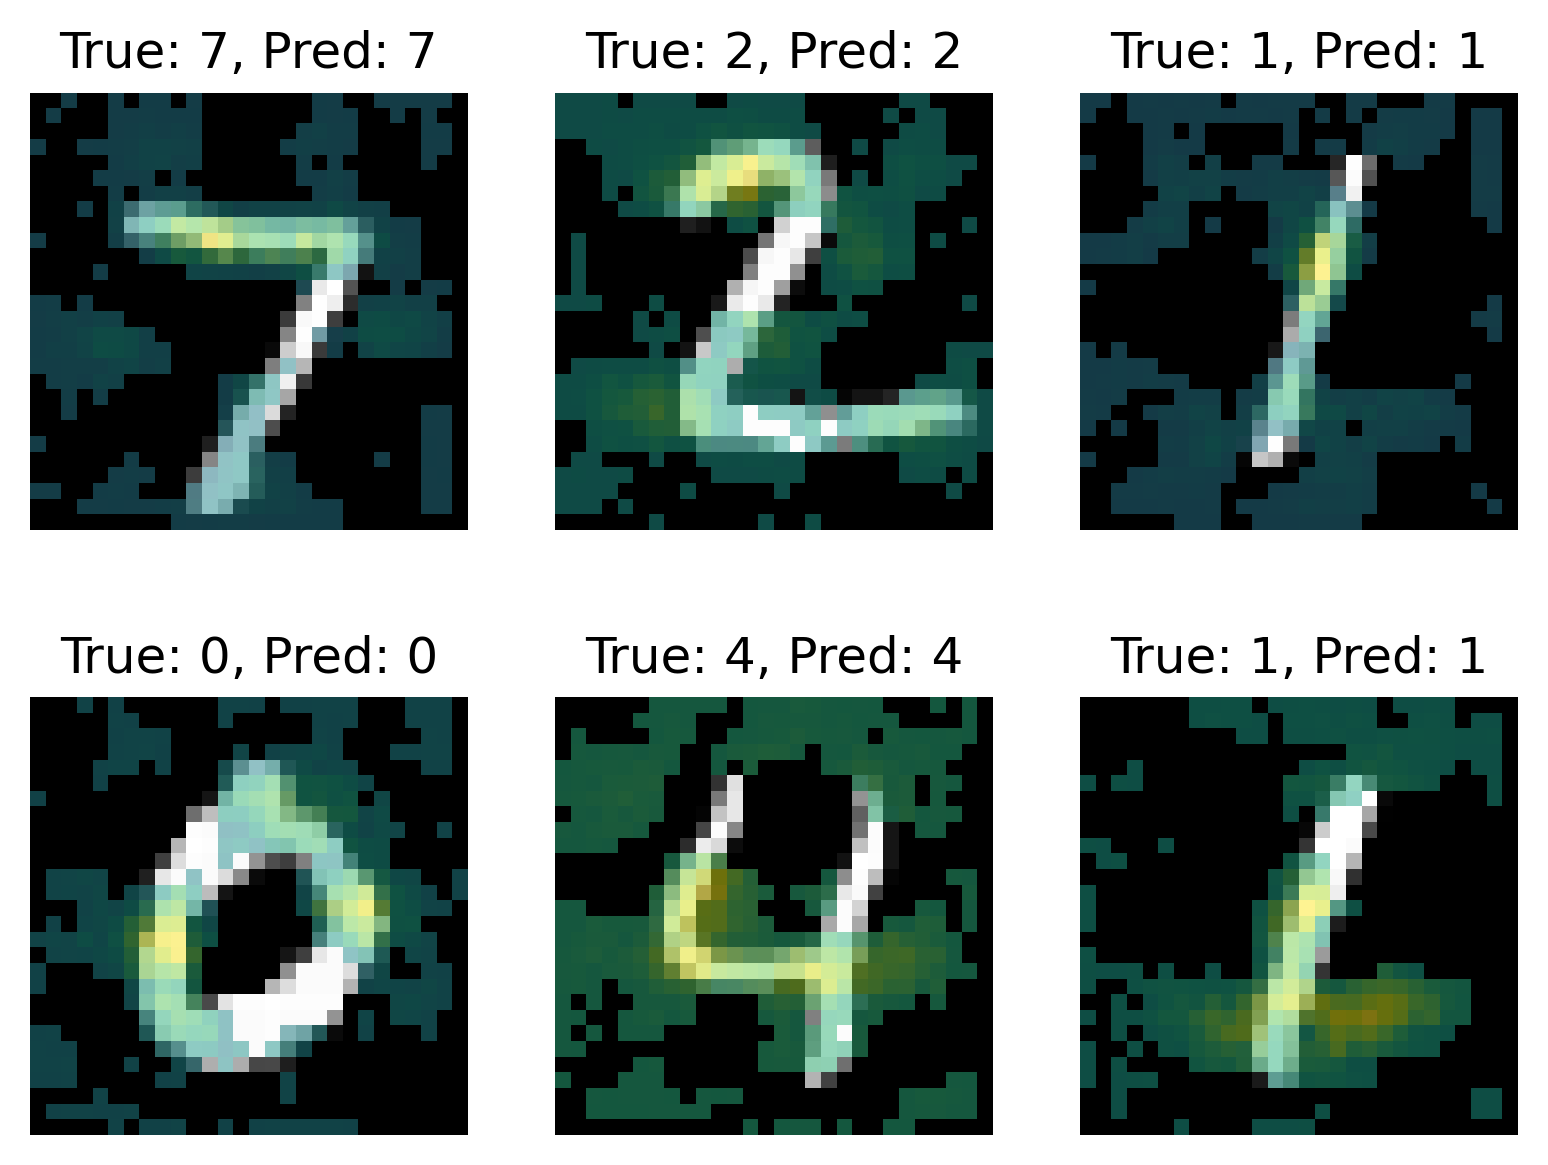
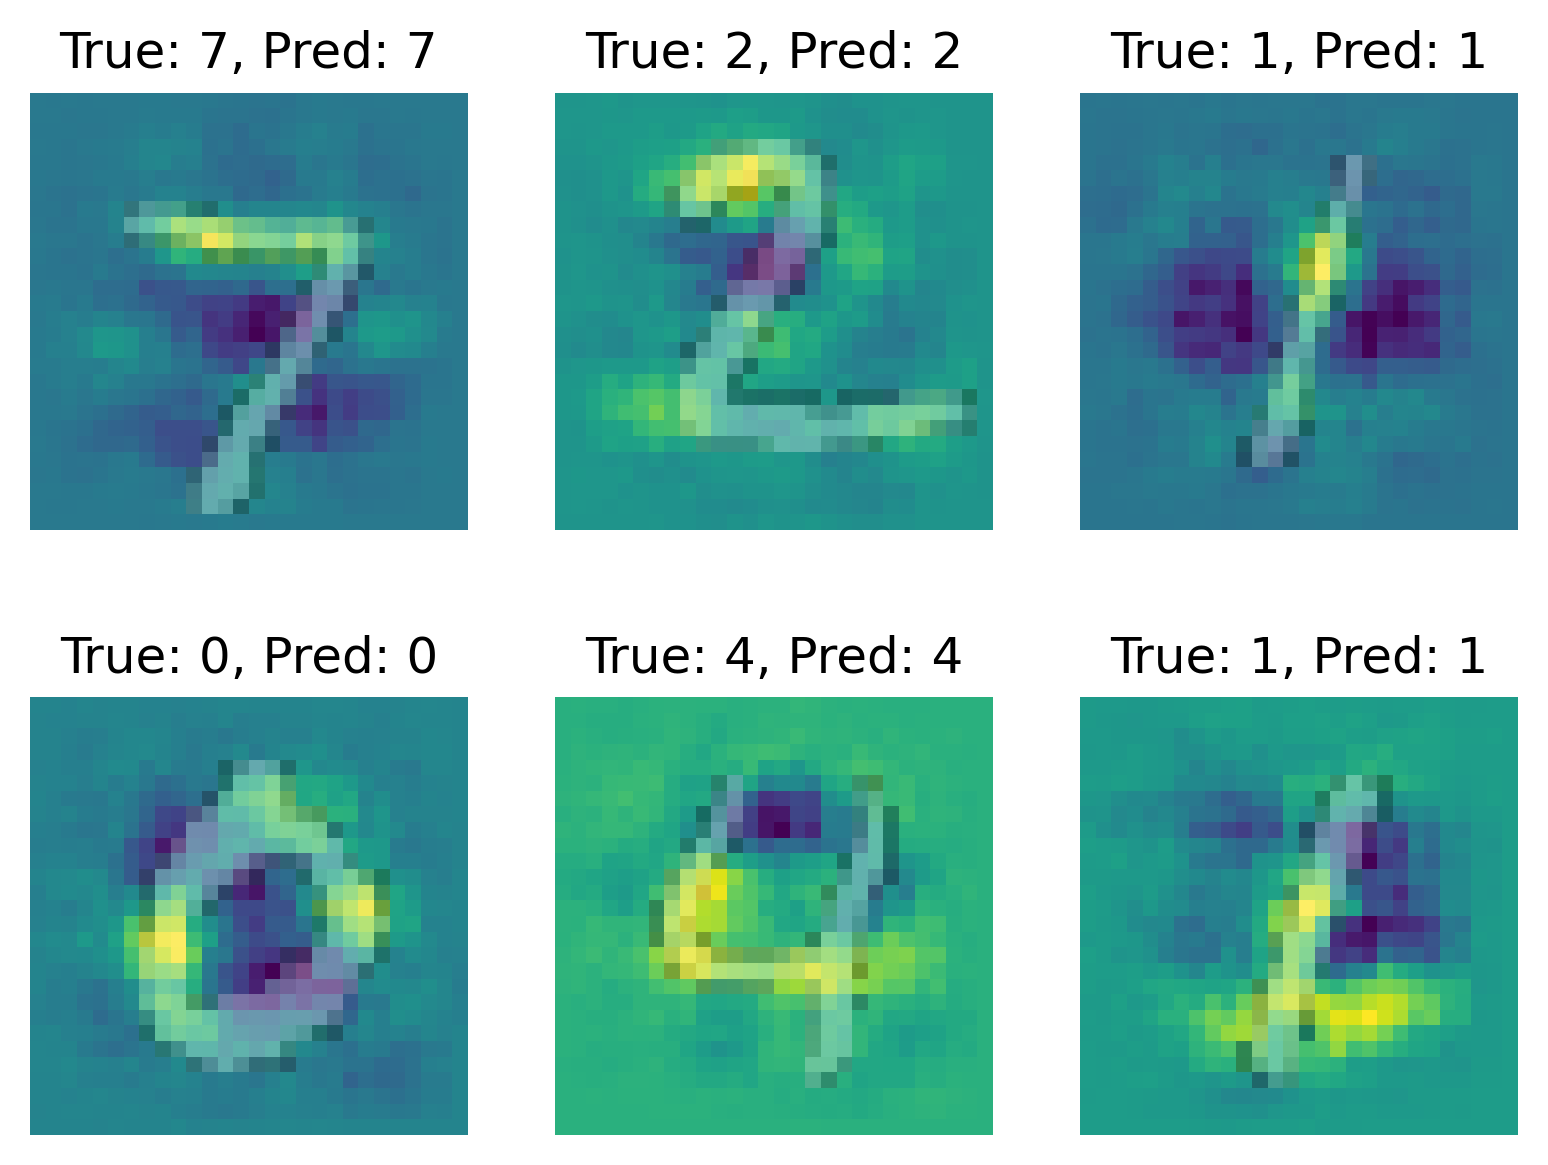
fix plot

diff --git a/visualisation.py b/visualisation.py
@@ -16,15 +16,15 @@ output = ops.softmax(output)
 pred = np.argmax(output, axis=1)
 y_pred = np.zeros((n, 10), dtype=np.float64)
 y_pred[np.arange(n), y_test[0:n]] = 1.0
-output_der = (y_pred - output) / float(n)
+output_der = (y_pred - output)
 input_der = model.backward(output_der)
 
 fig, axs = plt.subplots(2, 3)
 
 for k in range(n):
     i, j = k//3, k%3
-    axs[i, j].imshow(X_test[k, ..., 0], cmap='gray', interpolation='none')
-    axs[i, j].imshow(input_der[k, ..., 0], cmap='viridis', alpha=0.5*(input_der[k, ..., 0] > 0))
+    axs[i, j].imshow(input_der[k, ..., 0], cmap='viridis', interpolation='none')
+    axs[i, j].imshow(X_test[k, ..., 0], cmap='gray', alpha=0.3*(X_test[k, ..., 0] > 0))
     axs[i, j].set_title(f"True: {y_test[k]}, Pred: {pred[k]}")
     axs[i, j].axis('off')
 
